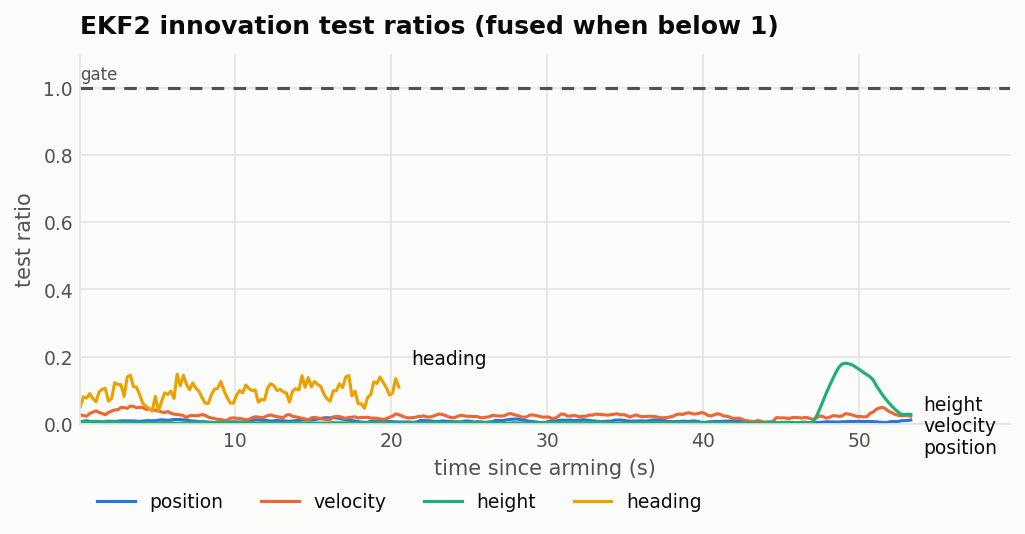
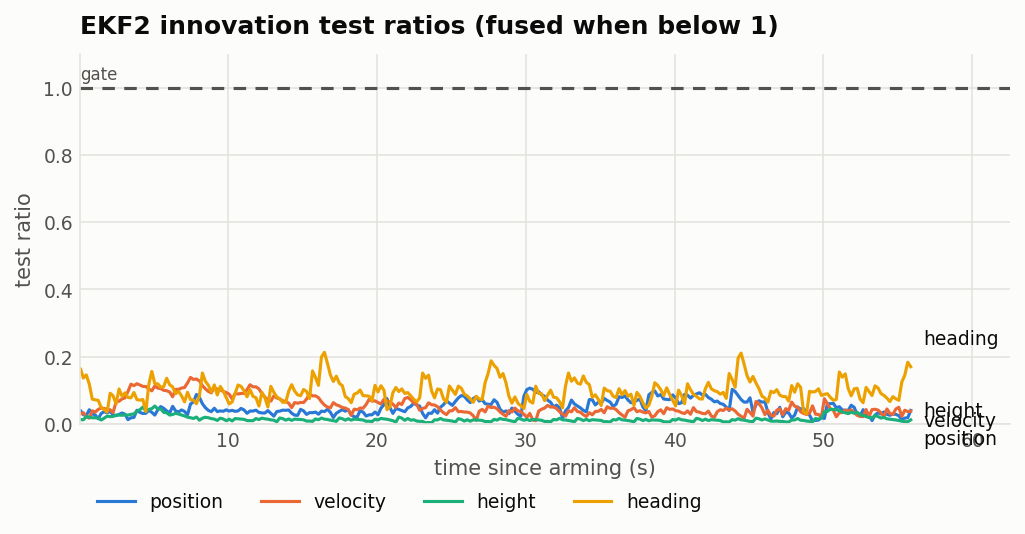
docs: PX4 v1.17.0 (stable) as the reference; bounds for its GPS noise
- README: build PX4 v1.17.0 (shallow clone of the tag, no separate
  submodule step: make fetches what it needs; checked from scratch, 6 min);
  the results and RTF are those of v1.17.0 (hover 2.22 on the M2 Pro),
  PX4 main (216039a) kept alongside.
- verification.md: v1.17.0 charts, checks, determinism table
  (2,903,884,344 instructions; SD, F-RAM and console hashes identical in
  fast, fast and strict) and speed (2.25 fast, 1.80 strict alone); main's
  results on the Mac and WSL2 as columns; why the EKF2 errors differ
  (v1.17.0's SIH GPS adds 0.2 m white noise per fix, main a correlated
  model; same in strict mode, so PX4, not the emulator).
- analyze_ulog.py: position bounds that hold for both versions (RMS
  0.6 m / max 1.5 m horizontal, 0.3 / 1.0 m vertical, hold within 0.6 m).

Changed region(s): [[0.0624, 0.6592, 0.9678, 0.8689], [0.9054, 0.5993, 0.9678, 0.6592]]

diff --git a/examples/px4-sih/verify/analyze_ulog.py b/examples/px4-sih/verify/analyze_ulog.py
@@ -124,7 +124,12 @@ def main():
         err = np.stack([at(truth["timestamp"][m], lpos["timestamp"], lpos[k]) - truth[k][m] for k in "xyz"], axis=1)
         horiz = np.hypot(err[:, 0], err[:, 1])
         vert = np.abs(err[:, 2])
-        r.check("ekf2 position vs truth", (np.max(horiz) < 0.5) and (np.max(vert) < 0.5),
+        # SIH's GPS noise differs by PX4 version (v1.17: white noise, 0.2 m per axis
+        # and 0.5 m vertical per fix; main: a correlated model): bounds for both
+        h_rms = np.sqrt(np.mean(horiz ** 2))
+        v_rms = np.sqrt(np.mean(vert ** 2))
+        r.check("ekf2 position vs truth",
+                (h_rms < 0.6) and (np.max(horiz) < 1.5) and (v_rms < 0.3) and (np.max(vert) < 1.0),
                 f"horizontal RMS {np.sqrt(np.mean(horiz ** 2)):.3f} m max {np.max(horiz):.3f} m, "
                 f"vertical RMS {np.sqrt(np.mean(vert ** 2)):.3f} m max {np.max(vert):.3f} m")
     att = topic(u, "vehicle_attitude")
@@ -173,12 +178,12 @@ def main():
             # the last 5 s of hovering at the target
             tail = lpos["timestamp"][m][hover] > (lpos["timestamp"][m][hover][-1] - 5e6)
             d = np.hypot(x[tail] - args.target_north, y[tail] - args.target_east)
-            r.check("position hold", np.max(d) < 0.3,
+            r.check("position hold", np.max(d) < 0.6,
                     f"distance to ({args.target_north}, {args.target_east}) m over the last 5 s: "
                     f"mean {np.mean(d):.3f} m, max {np.max(d):.3f} m")
         else:
             drift = np.hypot(x - x[0], y - y[0])
-            r.check("position hold", np.max(drift) < 0.3, f"horizontal drift while hovering max {np.max(drift):.3f} m")
+            r.check("position hold", np.max(drift) < 0.6, f"horizontal drift while hovering max {np.max(drift):.3f} m")
     else:
         r.check("altitude hold", False, "no hovering samples near the hover altitude")
 

diff --git a/docs/verification.md b/docs/verification.md
@@ -3,7 +3,8 @@
 The evidence behind the README's claims, made by
 [examples/px4-sih/verify/verify.sh](../examples/px4-sih/verify/verify.sh)
 (one command, about 2 minutes) from the stock `px4_fmu-v5_default` ELF of
-PX4 `216039a`. The charts come from the flight log (ULog) of its MAVLink
+PX4 v1.17.0, the current stable release (and of PX4 `main` at `216039a`,
+where marked). The charts come from the flight log (ULog) of its MAVLink
 scenario, read from the emulated microSD card, with
 [plot_ulog.py](../examples/px4-sih/verify/plot_ulog.py); the checks and their
 thresholds are in [analyze_ulog.py](../examples/px4-sih/verify/analyze_ulog.py)
@@ -64,12 +65,12 @@ flight, not PX4 requirements. "Flying" is from takeoff to touchdown as
 | flight | `vehicle_status`, `vehicle_land_detected` | armed, airborne, landed again, disarmed at the end |
 | ekf2 faults | `estimator_status` | `filter_fault_flags` always 0 |
 | ekf2 innovations | `estimator_status` | position, velocity, height and heading test ratios below 1 (inside PX4's gates) while armed |
-| ekf2 position vs truth | `vehicle_local_position`, `…_groundtruth` | while flying, horizontal and vertical error below 0.5 m |
+| ekf2 position vs truth | `vehicle_local_position`, `…_groundtruth` | while flying, horizontal error RMS below 0.6 m and max below 1.5 m, vertical RMS below 0.3 m and max below 1.0 m (wide enough for v1.17.0's noisier simulated GPS, below) |
 | ekf2 tilt vs truth | `vehicle_attitude`, `…_groundtruth` | tilt error RMS below 0.5°, max below 2° (the two topics are sampled at different times, so fast attitude changes show a lag) |
 | ekf2 heading vs truth | the same | heading error below 5° |
 | attitude tracking | `vehicle_attitude`, `vehicle_attitude_setpoint` | tilt error RMS below 2° while flying |
 | altitude hold | `vehicle_local_position` | from reaching 2.5 m (within 5 cm) to the descent: mean within 5 cm of 2.5 m, every sample within 15 cm |
-| position hold | `vehicle_local_position` | A: horizontal drift while hovering below 0.3 m; C: within 0.3 m of the target over the last 5 s |
+| position hold | `vehicle_local_position` | A: horizontal drift while hovering below 0.6 m; C: within 0.6 m of the target over the last 5 s |
 
 ### What it does not show
 
@@ -89,43 +90,48 @@ flight, not PX4 requirements. "Flying" is from takeoff to touchdown as
 Arm, take off to the default 2.5 m, "go to" a point 5 m north (`MAV_CMD_DO_REPOSITION`,
 what QGroundControl sends for "Go to location"), hover, land, disarm: all over
 MAVLink on TCP, as QGroundControl does ([fly_scenario.py](../examples/px4-sih/verify/fly_scenario.py)).
-SIH logs its own ground truth next to the EKF2 estimate.
+SIH logs its own ground truth next to the EKF2 estimate. The charts are of
+**PX4 v1.17.0**, the current stable release.
 
 <picture>
   <source media="(prefers-color-scheme: dark)" srcset="verification/altitude-dark.png">
-  <img alt="Altitude over time: setpoint, SIH ground truth and EKF2 estimate overlap from takeoff through the 2.5 m hover to touchdown" src="verification/altitude-light.png" width="720">
+  <img alt="Altitude over time: setpoint, SIH ground truth and EKF2 estimate within about 0.1 m of each other from takeoff through the 2.5 m hover to touchdown" src="verification/altitude-light.png" width="720">
 </picture>
 
 <picture>
   <source media="(prefers-color-scheme: dark)" srcset="verification/path-dark.png">
-  <img alt="Path seen from above: from the start point straight to the target 5 m north, ground truth and estimate overlapping" src="verification/path-light.png" width="420">
+  <img alt="Path seen from above: from the start to the target 5 m north; the estimate runs about 0.3 m west of the ground truth" src="verification/path-light.png" width="420">
 </picture>
 
 <picture>
   <source media="(prefers-color-scheme: dark)" srcset="verification/tilt-dark.png">
-  <img alt="Tilt over time: the vehicle follows the setpoint, up to 21 degrees when it starts towards the target" src="verification/tilt-light.png" width="720">
+  <img alt="Tilt over time: the vehicle follows the setpoint, up to 20 degrees when it starts towards the target" src="verification/tilt-light.png" width="720">
 </picture>
 
 <picture>
   <source media="(prefers-color-scheme: dark)" srcset="verification/ekf2-ratios-dark.png">
-  <img alt="EKF2 innovation test ratios for position, velocity, height and heading stay below 0.2, far under the gate of 1" src="verification/ekf2-ratios-light.png" width="720">
+  <img alt="EKF2 innovation test ratios for position, velocity, height and heading stay below 0.3, far under the gate of 1" src="verification/ekf2-ratios-light.png" width="720">
 </picture>
 
-| Check (MAVLink scenario) | Apple Silicon Mac | WSL2, Intel Core Ultra 7 155H |
-| --- | --- | --- |
-| Commands acknowledged (arm, takeoff, reposition, land) | all | all |
-| EKF2 filter faults | none | none |
-| EKF2 innovation test ratios, max (position, velocity, height, heading) | 0.02, 0.05, 0.18, 0.15 | below 1 (PASS) |
-| EKF2 position vs ground truth, RMS (horizontal, vertical) | 5.1 cm, 2.2 cm | 5.0 cm |
-| Tilt tracking error, RMS (max tilt) | 1.19° (21.2°) | 1.20° (21.2°) |
-| Hover altitude, mean (target 2.5 m) | 2.490 m | 2.489 m |
-| Distance to the target over the last 5 s, mean / max | 13 cm / 18 cm | 13 cm / 18 cm |
+| Check (MAVLink scenario) | Mac, PX4 v1.17.0 | Mac, PX4 main `216039a` | WSL2, PX4 main `216039a` |
+| --- | --- | --- | --- |
+| Commands acknowledged (arm, takeoff, reposition, land) | all | all | all |
+| EKF2 filter faults | none | none | none |
+| EKF2 innovation test ratios, max (position, velocity, height, heading) | 0.11, 0.14, 0.05, 0.21 | 0.02, 0.05, 0.18, 0.15 | below 1 (PASS) |
+| EKF2 position vs ground truth, RMS horizontal / vertical (max) | 46 cm / 12 cm (92 cm / 37 cm) | 5.1 cm / 2.2 cm | 5.0 cm horizontal |
+| Tilt tracking error, RMS (max tilt) | 1.07° (20.1°) | 1.19° (21.2°) | 1.20° (21.2°) |
+| Hover altitude, mean (target 2.5 m) | 2.511 m | 2.490 m | 2.489 m |
+| Distance to the target over the last 5 s, mean / max | 33 cm / 40 cm | 13 cm / 18 cm | 13 cm / 18 cm |
 
-After touchdown, SIH's ground truth ends 0.2 to 0.5 m below the takeoff
-point and the estimate settles back to 0: SIH's simple ground model
-(`sih.cpp`, "fake ground") stops the vehicle only once it is below the
-reference altitude. This is PX4's SIH, computed the same in strict mode
-(below), not the emulator.
+The EKF2 errors differ between the PX4 versions because SIH's simulated GPS
+does: v1.17.0 adds white noise to every fix (0.2 m per horizontal axis,
+0.5 m vertical), `main` a correlated noise model. Both versions run the same
+way in strict mode, so this is PX4, not the emulator.
+
+After touchdown, SIH's ground truth ends up to 0.5 m below the takeoff point
+(0.1 m in this v1.17.0 flight) and the estimate settles back to 0: SIH's
+simple ground model (`sih.cpp`, "fake ground") stops the vehicle only once
+it is below the reference altitude. This too is PX4's SIH.
 
 ## Determinism
 
@@ -134,26 +140,27 @@ The same flight typed into the NSH console at fixed virtual times
 land), three times from the same F-RAM and SD card images, in parallel:
 twice in the default mode, once in strict mode (`DEVICE_CONFIG_ARM_FP_MODE`
 and `DEVICE_CONFIG_ARM_EXEC_MODE strict`: Arm pseudo-code only, no fast
-executors, no host FPU).
+executors, no host FPU). PX4 v1.17.0 on the Mac:
 
-| Run (Mac) | Instructions | SD card image after the run, SHA-256 | F-RAM, SHA-256 | Console without the mode lines, SHA-256 |
+| Run | Instructions | SD card image after the run, SHA-256 | F-RAM, SHA-256 | Console without the mode lines, SHA-256 |
 | --- | ---: | --- | --- | --- |
-| fast 1 | 3,507,861,181 | `95ce250e9d41b178…` | `8972ebd62a8ca8e2…` | `82900639c8396631…` |
-| fast 2 | 3,507,861,181 | `95ce250e9d41b178…` | `8972ebd62a8ca8e2…` | `82900639c8396631…` |
-| strict | 3,507,861,181 | `95ce250e9d41b178…` | `8972ebd62a8ca8e2…` | `82900639c8396631…` |
+| fast 1 | 2,903,884,344 | `0d8392aa199d8ae4…` | `c1a69ccb3740c797…` | `36a05910bf2ca418…` |
+| fast 2 | 2,903,884,344 | `0d8392aa199d8ae4…` | `c1a69ccb3740c797…` | `36a05910bf2ca418…` |
+| strict | 2,903,884,344 | `0d8392aa199d8ae4…` | `c1a69ccb3740c797…` | `36a05910bf2ca418…` |
 
 The whole 1 GB SD card image, with the ULog, is the same bit for bit, and
 the fast paths give exactly the pseudo-code's results over the whole
-flight. On WSL2 the three runs are identical too. The counts belong to the
-ELF each host built (`verify.sh` prints its SHA-256 first):
+flight. Every host and version below gave three identical runs. The counts
+belong to the ELF each host built (`verify.sh` prints its SHA-256 first):
 
-| Host | `px4_fmu-v5_default.elf`, SHA-256 | Instructions of each run |
-| --- | --- | ---: |
[2 lines of base64/hex data omitted]
+| Host | PX4 | `px4_fmu-v5_default.elf`, SHA-256 | Instructions of each run |
+| --- | --- | --- | ---: |
[3 lines of base64/hex data omitted]
 
-The two ELFs differ (PX4 embeds build information, and the images differ),
-so their counts are not compared with each other.
+Different ELFs (PX4 embeds build information, and the images differ) give
+different counts, so the counts are not compared across them.
 
 Input timed by the wall clock, such as QGroundControl's commands over TCP,
 arrives at run-dependent virtual times: those runs are checked by their
@@ -183,18 +190,20 @@ RTF is virtual time over wall-clock time (above 1: faster than real time);
 Athrill runs on one host core. All runs in the default fast mode unless
 marked strict.
 
-| Workload | Mac (M2 Pro) | WSL2 PC (Core Ultra 7 155H) |
-| --- | ---: | ---: |
-| SIH hover over MAVLink, SD logging (`run.sh` + pymavlink) | 1.92 | 1.29 (1.34 just after the GPS fix) |
-| NSH flight of verify.sh A, boot to disarm, 74 s of virtual time, one run alone | 2.01 (36.8 s) | 1.34 (55.5 s) |
-| The same, strict mode (Arm pseudo-code only) | 1.58 (46.8 s) | 1.06 (70.1 s) |
-| `verify.sh`, everything (A runs its 3 flights in parallel) | about 100 s | 159 s |
-| Build: Athrill (cmake, build, ctest) | not timed | 44 s |
-| Build: PX4 (clone and submodules / Docker make with the image pull) | not timed | 266 s / 394 s |
+| Workload | Mac, PX4 v1.17.0 | Mac, PX4 main | WSL2, PX4 main |
+| --- | ---: | ---: | ---: |
+| SIH hover over MAVLink, SD logging (`run.sh` + pymavlink) | 2.22 | 1.92 | 1.29 (1.34 just after the GPS fix) |
+| NSH flight of verify.sh A, boot to disarm, 74 s of virtual time, one run alone | 2.25 (32.9 s) | 2.01 (36.8 s) | 1.34 (55.5 s) |
+| The same, strict mode (Arm pseudo-code only) | 1.80 (41.1 s) | 1.58 (46.8 s) | 1.06 (70.1 s) |
+| `verify.sh`, everything (A runs its 3 flights in parallel) | about 100 s | about 100 s | 159 s |
+| Build: Athrill (cmake, build, ctest) | not timed | not timed | 44 s |
+| Build: PX4 (clone / Docker make) | 356 s together (shallow clone of the tag, no separate submodule step) | not timed | 266 s / 394 s (with submodules and the image pull) |
 
-Strict mode takes 1.27 times as long as the fast mode on both hosts. On the
-WSL2 PC something else kept one core busy during these runs (load average
-1.00 before them); Athrill uses one core, so the effect should be small.
+PX4 v1.17.0 runs about 17 % fewer instructions than `main` for the same
+flight, hence its higher RTF. Strict mode takes about 1.25 times as long as
+the fast mode. On the WSL2 PC something else kept one core busy during
+these runs (load average 1.00 before them); Athrill uses one core, so the
+effect should be small.
 
 Hakoniwa Drone PRO's x500 (README, "Beyond SIH") runs at RTF 1.48 on the
 Mac, the whole system with MuJoCo and no viewer.

diff --git a/README.md b/README.md
@@ -27,8 +27,8 @@ not a cycle-accurate or electrically accurate substitute for real hardware.
 
 The stock PX4 `px4_fmu-v5_default` firmware boots on the emulated Pixhawk 4,
 runs PX4's **SIH** (simulation-in-hardware) quadcopter, talks MAVLink to
-QGroundControl over TCP, takes off to the default **2.5 m** and holds
-**2.49–2.51 m**, and writes its ULog to the emulated microSD card, which can
+QGroundControl over TCP, takes off to the default **2.5 m** and hovers there
+(2.45–2.54 m in the estimate), and writes its ULog to the emulated microSD card, which can
 be mounted on the host afterwards. Everything used is public: Athrill, this
 target, PX4 itself and QGroundControl.
 
@@ -103,22 +103,21 @@ stops at its clock limit (`EXIT for timeout(100000).`, exit status 1).
 
 ### 2. Build the PX4 firmware
 
-The stock Pixhawk 4 target of PX4 `main`, unmodified, at the commit the
-demonstrations used, with PX4's build image (Docker), beside the other
-repositories:
+The stock Pixhawk 4 target of PX4 v1.17.0, the current stable release,
+unmodified, with PX4's build image (Docker), beside the other repositories
+(about 6 minutes; `make` fetches the submodules it needs):
 
 ```sh
 cd ..
-git clone https://github.com/PX4/PX4-Autopilot.git PX4
-git -C PX4 checkout 216039a12bab5a86769128f7be3e5f63dc7b4952
-git -C PX4 submodule update --init --recursive
+git clone --branch v1.17.0 --depth 1 https://github.com/PX4/PX4-Autopilot.git PX4
 docker run --rm -v "$PWD/PX4:/src" -w /src px4io/px4-dev:v1.17.0-beta1 make px4_fmu-v5_default
 ls -l PX4/build/px4_fmu-v5_default/px4_fmu-v5_default.elf
 ```
 
-Athrill loads the **ELF** (it needs the symbols), not the `.px4` upload
-file, and starts PX4 itself at `0x08008000`, after the place of the
-bootloader, which is not run. `px4_sitl` is not a substitute: the point is
+PX4 `main` works too (checked at `216039a`; see
+[docs/verification.md](docs/verification.md)). Athrill loads the **ELF**
+(it needs the symbols), not the `.px4` upload file, and starts PX4 itself
+at `0x08008000`, past the bootloader, which is not run. `px4_sitl` is not a substitute: the point is
 the board-target build. On Linux the container's files under `PX4/build`
 belong to root (`sudo chown -R "$USER" PX4` if you want them back).
 
@@ -153,19 +152,21 @@ These steps were run as written on an **Apple Silicon Mac** (macOS) and on
 On WSL2: `sudo apt install dosfstools mtools`, and the Python packages in a
 venv. QGroundControl on Windows connects to PX4 in WSL2 with a TCP link to
 `127.0.0.1:5760` (WSL's localhost forwarding), shows the vehicle at Zurich
-and flies it. Hovering runs at RTF 1.92 on the Mac (M2 Pro), 1.29 on that
-PC; the machines and more numbers are in
+and flies it. Hovering runs at RTF 2.22 on the Mac (M2 Pro) with PX4
+v1.17.0; the machines and more numbers, of both hosts and PX4 versions, are
+in
 [docs/verification.md](docs/verification.md#test-machines).
 
 ## Performance and validation
 
 Results from **2026-11-04**, on an Apple Silicon Mac (M2 Pro), with
-virtual STM32 clock at 216 MHz (both hosts in
+virtual STM32 clock at 216 MHz (both hosts and PX4 versions in
 [docs/verification.md](docs/verification.md#speed)):
 
 | Workload | Real-time factor (RTF) |
 | --- | ---: |
-| PX4 SIH hover, QGroundControl/MAVLink and SD logging, after optimization | **1.92–1.94** (two runs) |
+| PX4 v1.17.0 SIH hover, QGroundControl/MAVLink and SD logging | **2.22** |
+| The same with PX4 `main` (`216039a`) | 1.92–1.94 |
 
 An RTF above 1 means virtual simulation time advances faster than elapsed
 wall-clock time for the measured workload. These are *workload- and
@@ -223,16 +224,18 @@ numbers are in [docs/verification.md](docs/verification.md):
 
 <picture>
   <source media="(prefers-color-scheme: dark)" srcset="docs/verification/altitude-dark.png">
-  <img alt="Altitude over time: setpoint, SIH ground truth and EKF2 estimate overlap from takeoff through the 2.5 m hover to touchdown" src="docs/verification/altitude-light.png" width="720">
+  <img alt="Altitude over time: setpoint, SIH ground truth and EKF2 estimate within about 0.1 m of each other from takeoff through the 2.5 m hover to touchdown" src="docs/verification/altitude-light.png" width="720">
 </picture>
 
 
+PX4 v1.17.0 on the Mac (PX4 `main` and WSL2 in the verification page):
+
 | Check | Result |
 | --- | --- |
-| **Determinism**: take off, hover, land, typed into the NSH console at fixed virtual times, three runs from the same F-RAM and SD card images | Two runs in the default mode and one in strict mode (Arm pseudo-code only, no fast executors, no host FPU): identical F-RAM, **whole SD card image including the ULog**, and console output apart from the strict run's two mode lines; 3,507,861,181 instructions each |
-| **EKF2** (estimate vs SIH ground truth, from the ULog) | no filter faults; innovation test ratios at most 0.26 (gate 1); position error RMS 4 cm horizontal, 2 cm vertical; tilt 0.12°, heading 1.8° |
-| **Attitude and position control** | hover at 2.489 m mean (2.451–2.504 m) for a 2.5 m takeoff; horizontal drift at most 7 cm |
-| **QGroundControl-style MAVLink**: arm, take off, "go to" 5 m north, hover, land | all commands acknowledged; up to 21° tilt with tilt tracking RMS 1.2°; holds the target within 18 cm; lands and disarms; ULog checks as above pass |
+| **Determinism**: take off, hover, land, typed into the NSH console at fixed virtual times, three runs from the same F-RAM and SD card images | Two runs in the default mode and one in strict mode (Arm pseudo-code only, no fast executors, no host FPU): identical F-RAM, **whole SD card image including the ULog**, and console output apart from the strict run's two mode lines; 2,903,884,344 instructions each |
+| **EKF2** (estimate vs SIH ground truth, from the ULog) | no filter faults; innovation test ratios at most 0.24 (gate 1); position error RMS 39 cm horizontal, 11 cm vertical (v1.17.0's simulated GPS adds 0.2 m white noise per fix); tilt 0.44°, heading 1.3° |
+| **Attitude and position control** | hover at 2.498 m mean (2.451–2.513 m) for a 2.5 m takeoff; horizontal drift at most 28 cm |
+| **QGroundControl-style MAVLink**: arm, take off, "go to" 5 m north, hover, land | all commands acknowledged; up to 20° tilt with tilt tracking RMS 1.1°; holds the target within 40 cm; lands and disarms; ULog checks as above pass |
 
 The checks and their limits are in
 [analyze_ulog.py](examples/px4-sih/verify/analyze_ulog.py) (thresholds chosen
